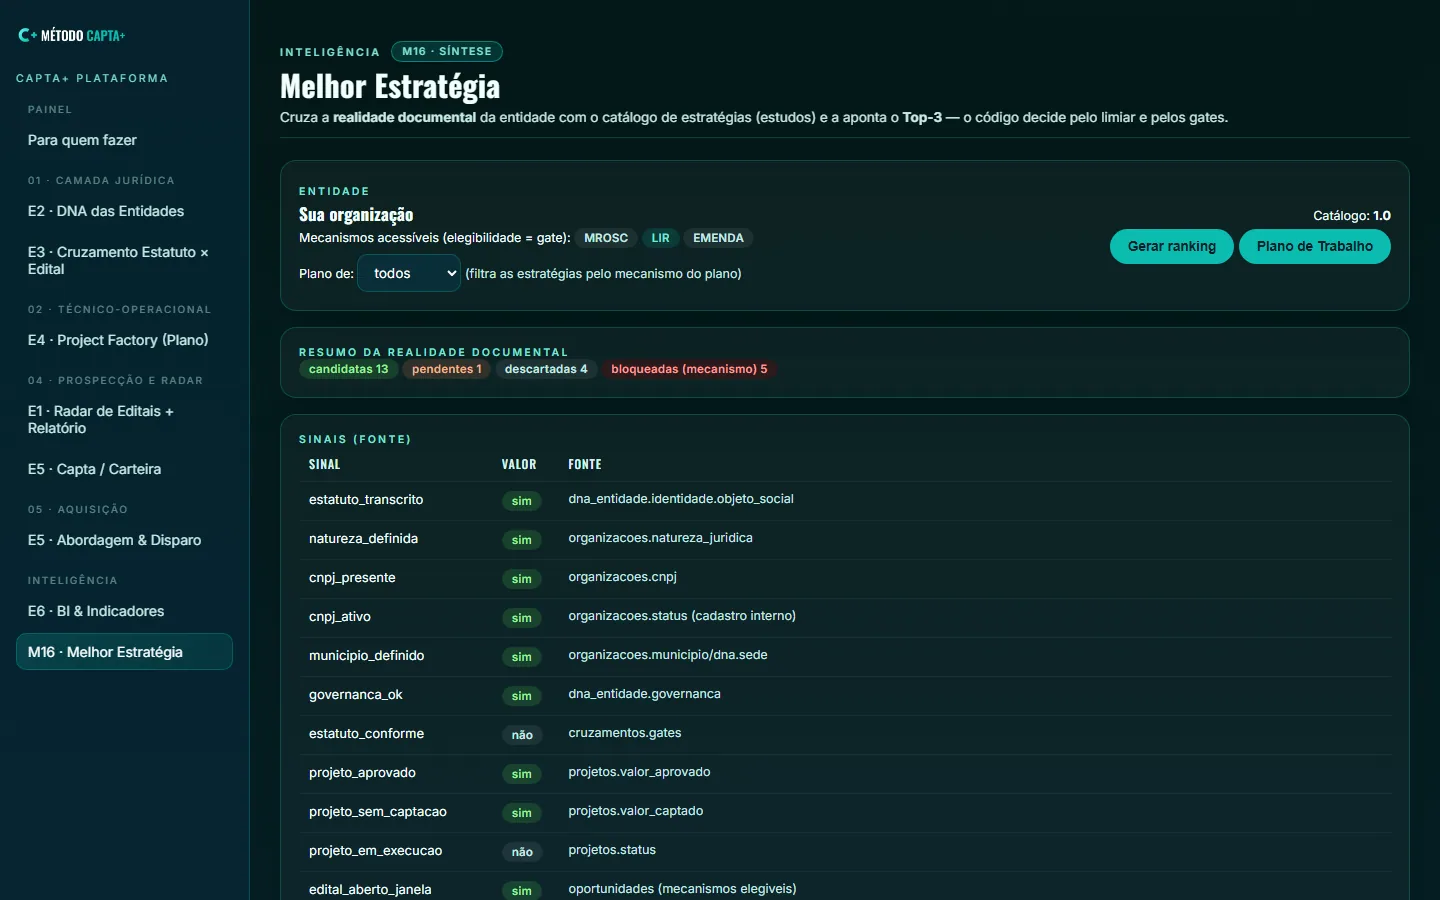
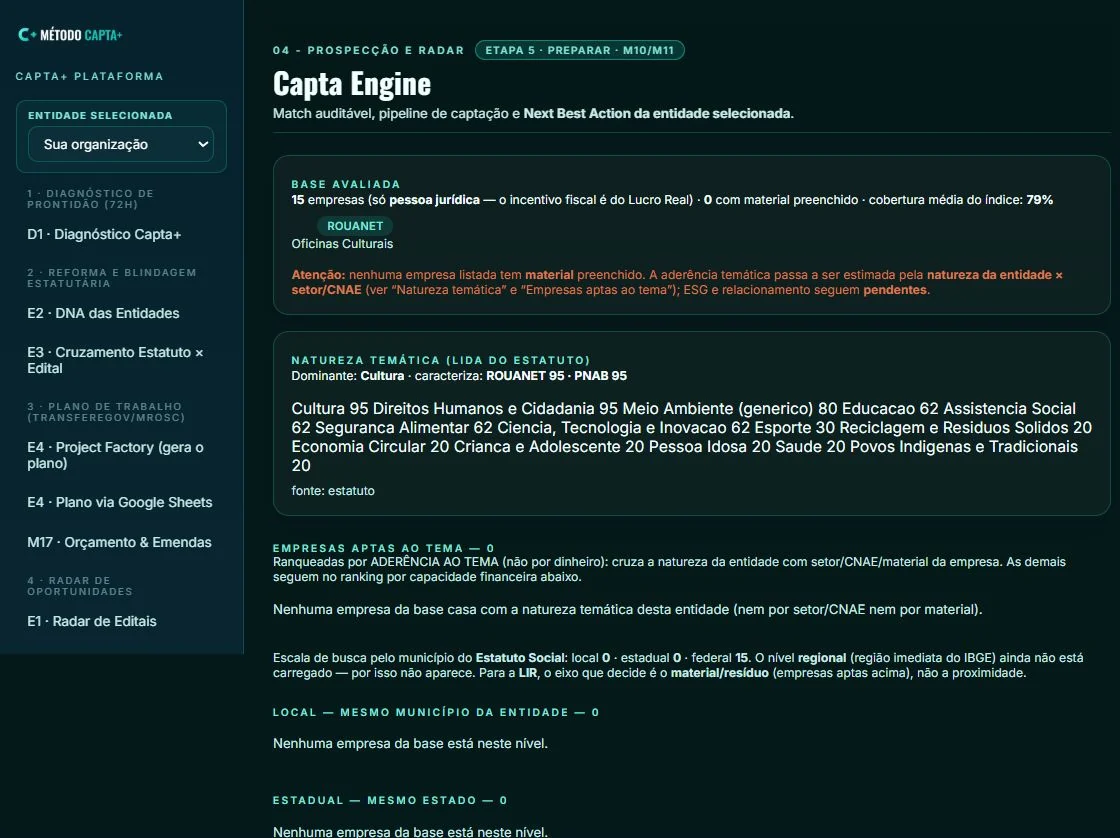
build: esteira do site (build_site.py)

Changed region(s): [[0.0, 0.031, 0.9688, 1.0]]

diff --git a/demonstracao/index.html b/demonstracao/index.html
@@ -119,21 +119,21 @@ transition:transform .22s ease,box-shadow .22s ease,filter .22s ease;}
 </section>
 
 <section class="tela">
-<h2>Método &amp; Módulos — as seis etapas e os 17 módulos</h2>
-<p>As seis etapas oficiais, os <b>17 módulos (M0–M16)</b> que as sustentam e as telas de cada uma — incluindo o <b>M16 · Melhor Estratégia</b>. A mesma definição usada internamente.</p>
-<img src="../assets/demo/metodo.webp" alt="Tela Método e Módulos da Capta+ Plataforma: as seis etapas, os módulos (M0–M16) e o Núcleo de Integridade" loading="lazy" decoding="async">
+<h2>DNA da Entidade — o estatuto verificado dispositivo por dispositivo</h2>
+<p>Cada exigência do <b>MROSC</b> é confrontada com o artigo do estatuto: dispositivo localizado, status e a correção a aplicar. É a base que alimenta a elegibilidade e a habilitação — e o que impede candidatura em mecanismo que a entidade não tipifica. As seis etapas e os módulos que sustentam essa leitura estão em <a href="../metodo-capta-plus/">Método Capta+</a>.</p>
+<img src="../assets/demo/metodo.webp" alt="Tela DNA das Entidades da Capta+ Plataforma: verificação do estatuto contra o MROSC, com dispositivo, status e fundamento de cada cláusula" loading="lazy" decoding="async">
 </section>
 
 <section class="tela">
 <h2>Radar de Editais — a oportunidade certa primeiro</h2>
-<p>Editais, chamamentos, LIR e Rouanet reunidos e <b>ordenados por prioridade</b>: a proximidade (cidade → estado → federação), o prazo e a aderência definem o que fica no topo. Cada linha já traz a <b>plataforma de submissão</b>, o prazo (<i>prazo não publicado</i> quando a fonte não informa data) e a fonte.</p>
-<img src="../assets/demo/radar.webp" alt="Tela Radar de Editais da Capta+ Plataforma: oportunidades ordenadas por prioridade, com UF, proximidade, plataforma, prazo, valor e mecanismo" loading="lazy" decoding="async">
+<p>Editais, chamamentos, LIR e Rouanet reunidos e <b>ordenados pelo índice de prioridade</b>: proximidade (cidade → estado → federação), prazo e aderência ao objeto definem o que fica no topo. Cada linha traz a <b>plataforma de submissão</b>, o prazo (<i>prazo não publicado</i> quando a fonte não informa data) e a fonte. Como o índice é calculado está em <a href="../radar/como-pontuamos/">como pontuamos uma oportunidade</a>.</p>
+<img src="../assets/demo/radar.webp" alt="Tela Radar de Editais da Capta+ Plataforma: oportunidades com índice de prioridade, UF, plataforma, prazo, valor e mecanismo" loading="lazy" decoding="async">
 </section>
 
 <section class="tela">
-<h2>Melhor Estratégia (M16) — a plataforma ranqueia, o humano decide</h2>
-<p>Cruza a realidade documental da organização com o catálogo de estratégias (estudos) e aponta o <b>Top-3</b>; o código aplica o limiar e os gates, e o humano arbitra. A <b>elegibilidade ao mecanismo é gate eliminatório</b> e cada sinal traz a sua fonte.</p>
-<img src="../assets/demo/estrategia.webp" alt="Tela Melhor Estratégia (M16) da Capta+ Plataforma: resumo da realidade documental, sinais com fonte e Top-3" loading="lazy" decoding="async">
+<h2>Capta Engine — natureza temática e empresas aptas</h2>
+<p>Lê a <b>natureza da entidade no estatuto</b>, calcula a aderência por tema e ranqueia as empresas da base por <b>aderência temática</b> (setor, CNAE, material) — não por dinheiro. O ranking sugere a ordem de abordagem; a conversa e a decisão são humanas.</p>
+<img src="../assets/demo/estrategia.webp" alt="Tela Capta Engine da Capta+ Plataforma: base avaliada, natureza temática lida do estatuto e empresas aptas ao tema" loading="lazy" decoding="async">
 </section>
 
 <section class="cta">
